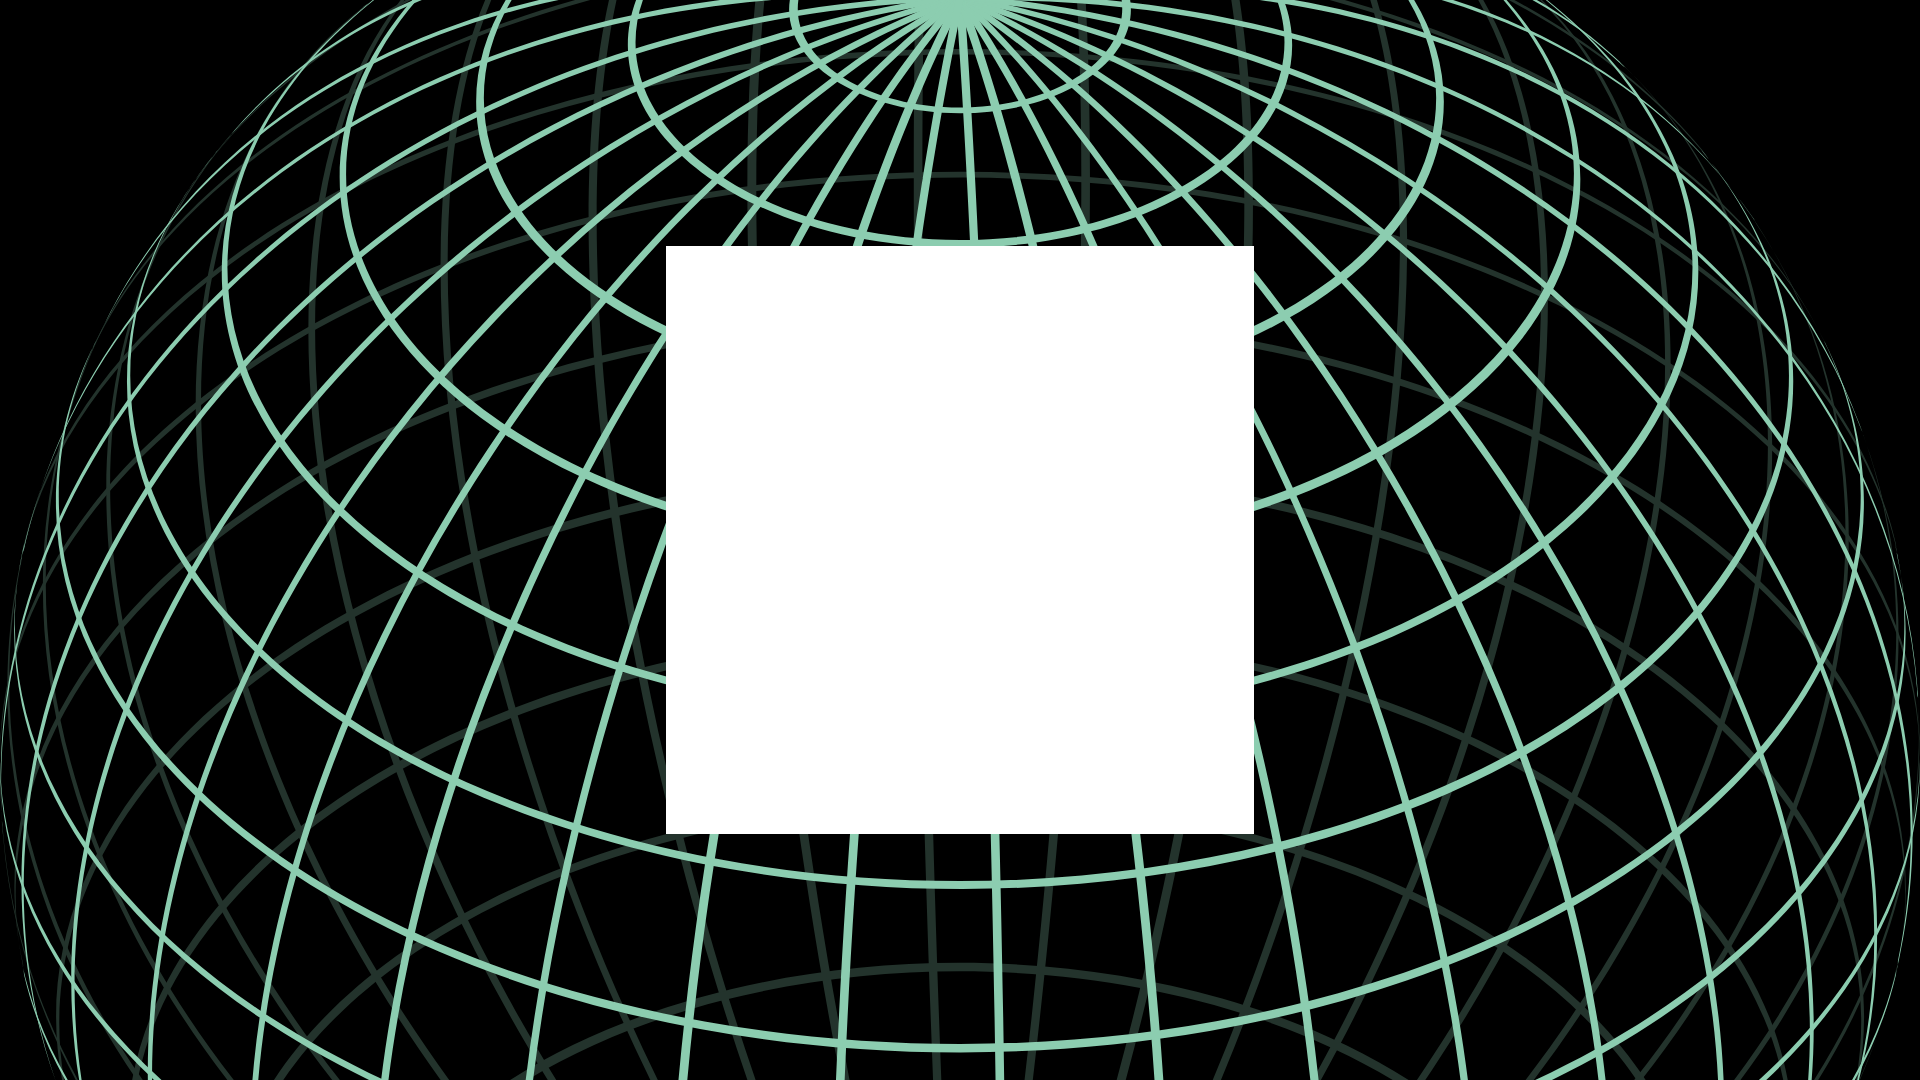
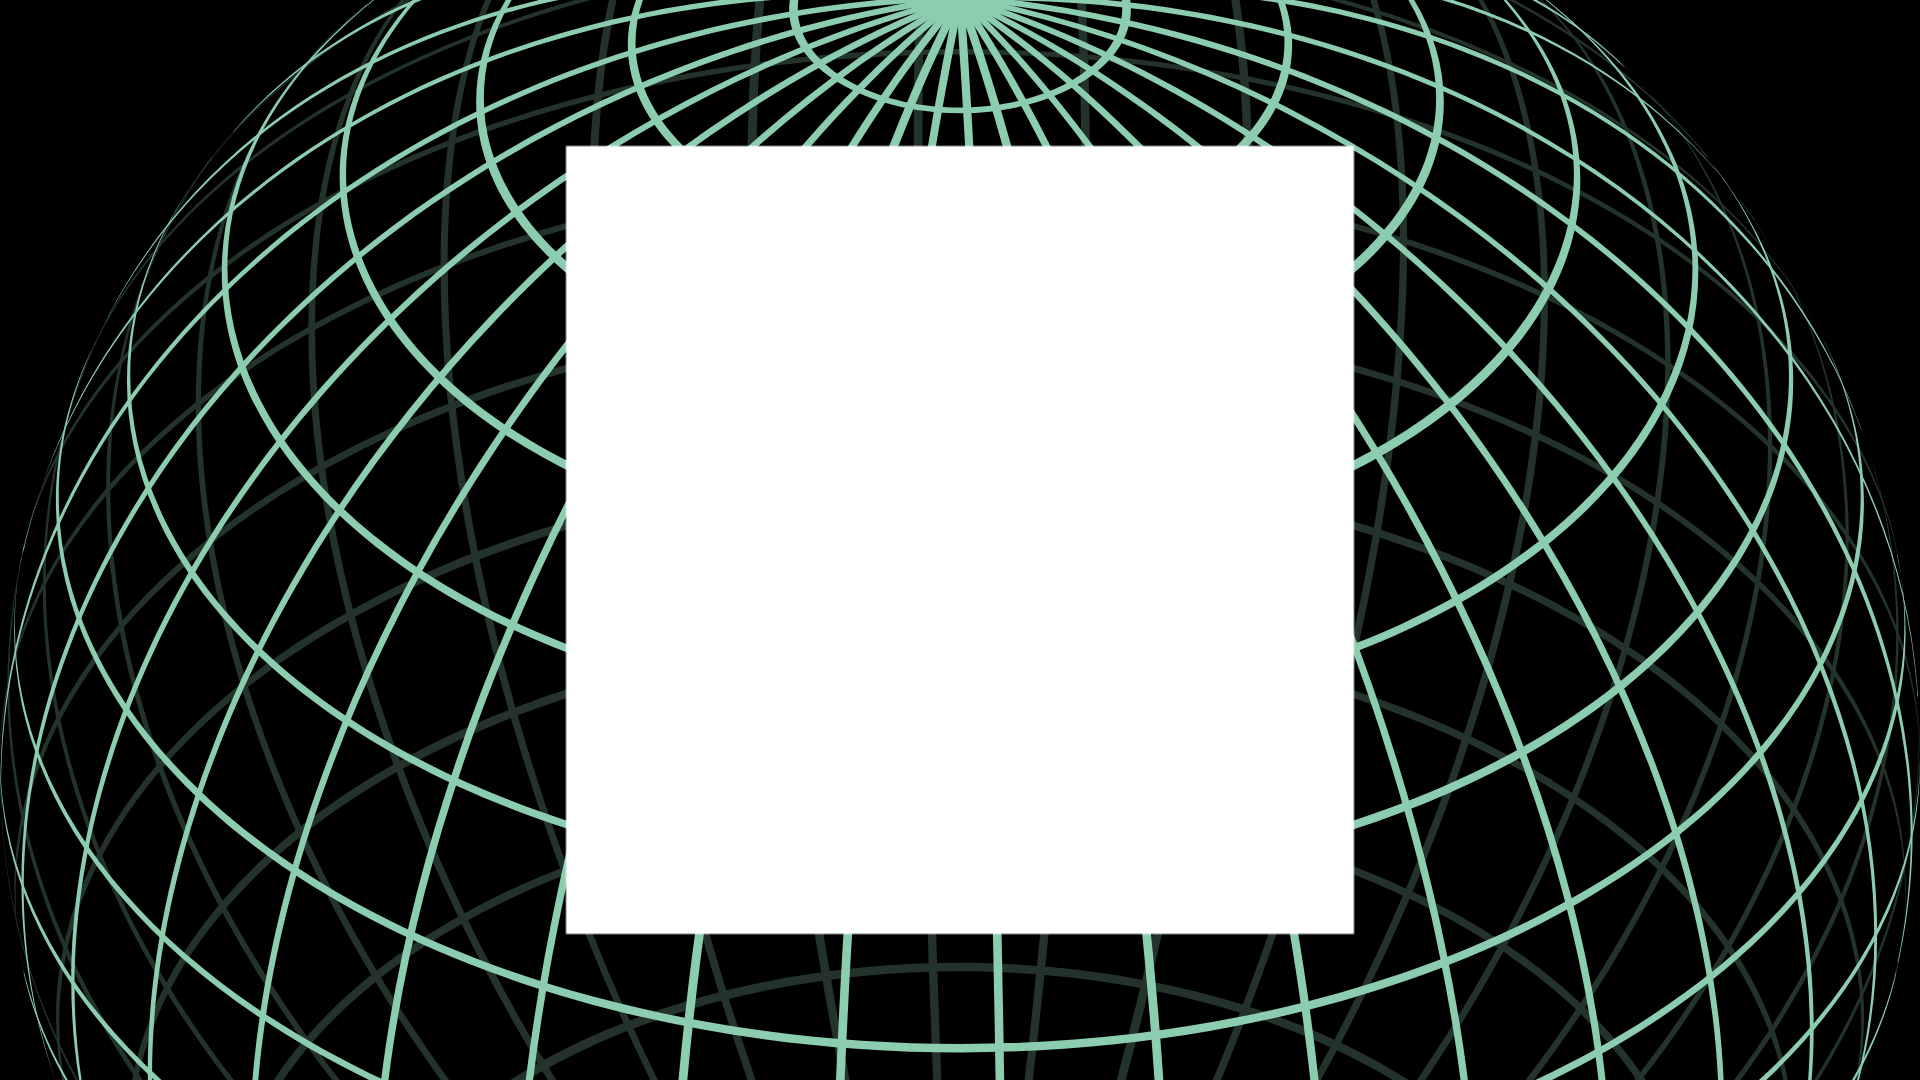
augmentation taille de l'écran de jeu 800x800

Changed region(s): [[0.2812, 0.1222, 0.7188, 0.8861]]

diff --git a/main.py b/main.py
@@ -32,12 +32,13 @@ pygame.display.set_icon(pygame.image.load(var.img_icon))#icone de la fenetre
 affFenetre = True
 
 #musique de fond
-pygame.mixer.music.load(var.music_hell_march)
-pygame.mixer.music.load(var.music_face_the_enemy2)
-pygame.mixer.music.load(var.music_face_the_enemy1)
-pygame.mixer.music.load(var.music_bigfoot)
-pygame.mixer.music.load(var.music_smash)
-pygame.mixer.music.play()
+if var.MUSIC:
+    pygame.mixer.music.load(var.music_hell_march)
+    pygame.mixer.music.load(var.music_face_the_enemy2)
+    pygame.mixer.music.load(var.music_face_the_enemy1)
+    pygame.mixer.music.load(var.music_bigfoot)
+    pygame.mixer.music.load(var.music_smash)
+    pygame.mixer.music.play()
 
 ##debut des evenements
 Player = classes.PlayerPlane(150,200,True)
@@ -104,12 +105,12 @@ while affFenetre:
     #####fonds, avions,missiles
     
     try:
-        fenetre.blit(fondNoir.image,var.playerList[0].camera.apply(fondNoir.rect,-var.MAP_LIMITS/2+320,-var.MAP_LIMITS/2+192))
-        fenetre.blit(fond.image,var.playerList[0].camera.apply(fond.rect,320,192))
+        fenetre.blit(fondNoir.image,var.playerList[0].camera.apply(fondNoir.rect,-var.MAP_LIMITS/2+var.XCAM_MODIF,-var.MAP_LIMITS/2+var.YCAM_MODIF))
+        fenetre.blit(fond.image,var.playerList[0].camera.apply(fond.rect,var.XCAM_MODIF,var.YCAM_MODIF))
         
 
         for objet in var.refreshList:
-            fenetre.blit(objet.image,var.playerList[0].camera.apply(objet.rect,320,192))
+            fenetre.blit(objet.image,var.playerList[0].camera.apply(objet.rect,var.XCAM_MODIF,var.YCAM_MODIF))
     
     except IndexError:
 
@@ -122,10 +123,14 @@ while affFenetre:
         
     
     #####HUD
-
-    for notif in var.refreshNotifList:
-        fenetre.blit(notif.corps,(var.SCREEN_LENGHT/2-290,var.SCREEN_HEIGHT/2-300))
     
+    for icon in var.refreshIconlist:
+        fenetre.blit(icon.corps,(icon.x,icon.y))#on affiche les icones
+        icon.delete()#puis on les delete
+    
+    
+    fenetre.blit(overlay.image,overlay.rect)#image du HUD
+
     try:
         for objet in var.refreshList: #test si un ennemi est hors de vue du joueur
             if type(objet) != classes.Missile and objet.friendly != var.playerList[0].friendly:
@@ -141,11 +146,10 @@ while affFenetre:
     except IndexError:pass
 
     
-    for icon in var.refreshIconlist:
-        fenetre.blit(icon.corps,(icon.x,icon.y))#on affiche les icones
-        icon.delete()#puis on les delete
     
-    fenetre.blit(overlay.image,overlay.rect)
+    for notif in var.refreshNotifList:#affichage des notifs
+        fenetre.blit(notif.corps,(var.SCREEN_LENGHT/2-480,var.SCREEN_HEIGHT/2-280))
+    
     
 
     #Rafraichissement

diff --git a/classes.py b/classes.py
@@ -437,9 +437,9 @@ class Icon():
     def __init__(self,xy,iconType):
         x,y = xy
         self.x = utility.plafonne(x,var.SCREEN_SIZE-10,True)
-        self.x = utility.plafonne(self.x,30,False)+300
+        self.x = utility.plafonne(self.x,5,False)+var.XCAM_MODIF-16#le 0,5, -16 sont des micro-réglages, à modif en f de l'ecran
         self.y = utility.plafonne(y,var.SCREEN_SIZE-10,True)
-        self.y = utility.plafonne(self.y,30,False)+172
+        self.y = utility.plafonne(self.y,5,False)+var.YCAM_MODIF-5#le 0,5, -5 sont des micro-réglages, à modif en f de l'ecran
 
         var.refreshIconlist.append(self)
         if iconType == "ennemy":

diff --git a/variables.py b/variables.py
@@ -1,9 +1,12 @@
 MAP_LIMITS = 2000 #2000X2000
 DELAI = 0.05 #secondes
 SCREEN_TYPE = 43
-SCREEN_SIZE = 640 # fenetre en 640X640
+SCREEN_SIZE = 800 # fenetre en 640X640
+XCAM_MODIF = 250
+YCAM_MODIF = 110
 SCREEN_LENGHT = 0
 SCREEN_HEIGHT = 0
+MUSIC = False
 
 refreshList = []
 hitList = []
